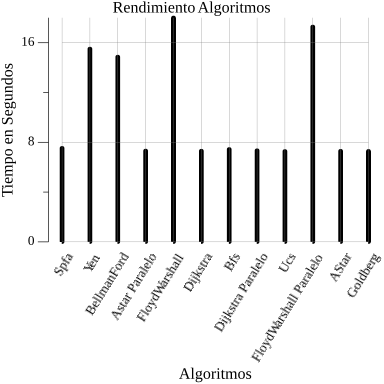
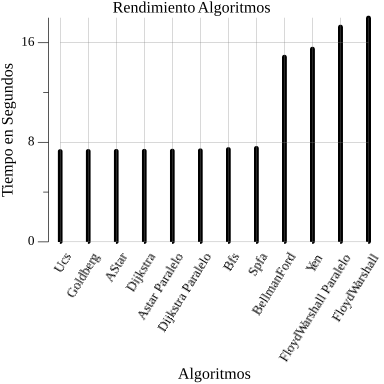
final

diff --git a/herramientaGraficas/graficos.go b/herramientaGraficas/graficos.go
@@ -5,6 +5,7 @@ import (
 	"fmt"
 	"image/color"
 	"os"
+	"sort"
 	"strconv"
 	"strings"
 
@@ -47,7 +48,7 @@ func Graficar(tam int) {
 	p.Y.Label.Text = "Tiempo en Segundos"
 
 	// Leer datos desde un archivo CSV
-	data, err := readCSV(rutaResultados)
+	data, err := readAndSortCSV(rutaResultados)
 	if err != nil {
 		fmt.Println(err)
 		return
@@ -102,8 +103,8 @@ func dataLabels(data []DataPoint) []string {
 	return labels
 }
 
-// Función para leer datos desde un archivo CSV
-func readCSV(filename string) ([]DataPoint, error) {
+// Función para leer datos desde un archivo CSV y ordenarlos
+func readAndSortCSV(filename string) ([]DataPoint, error) {
 	file, err := os.Open(filename)
 	if err != nil {
 		return nil, err
@@ -125,6 +126,11 @@ func readCSV(filename string) ([]DataPoint, error) {
 		}
 		data = append(data, DataPoint{Name: name, Value: value})
 	}
+
+	// Ordenar los datos en forma ascendente según el valor
+	sort.Slice(data, func(i, j int) bool {
+		return data[i].Value < data[j].Value
+	})
 
 	return data, nil
 }
